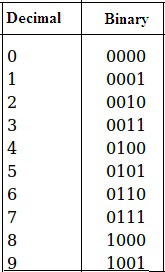
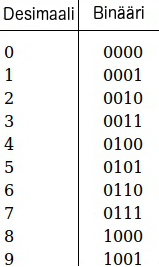
Add content to Dec-Bin converter page

Changed region(s): [[0.0, 0.0, 1.0, 1.0], [0.6289, 0.5993, 0.9057, 0.6592]]

diff --git a/muunna-frontend/src/components/Conversion/DecToBinCon.js b/muunna-frontend/src/components/Conversion/DecToBinCon.js
@@ -2,9 +2,12 @@ import React, {useState, useEffect} from 'react'
 import Notification from '../Notification'
 import { Breadcrumb } from 'react-bootstrap'
 import { LinkContainer } from "react-router-bootstrap"
+import desimaalijarjestelma from '../../desimaali.png'
+import binaarijarjestelma from '../../binaarijarjestelma.png'
+import binaarilukutaulukko from '../../binaarilukutaulukko.png'
 
 const DecToBinCon = () => {
-    const [decimal, setDecimal] = useState('')
+    const [decimal, setDecimal] = useState('10')
     const [binary, setBinary] = useState('')
     const [message, setMessage] = useState('')
     const [errorMessage, setErrorMessage] = useState('')
@@ -63,8 +66,28 @@ const DecToBinCon = () => {
                     </p>
                 </form>
                 <Notification message={message} result={binary} errorMessage={errorMessage} />
+                <p>Katso myös <a href="/yksikkomuuntimet/binaari-desimaali-muunnin">binääri-desimaalilukumuunnin</a>.</p>
             </div>
             </div>
+            <hr />
+            <h4>Desimaalijärjestelmä</h4>
+            <p>Normaalisti käytämme arkielämässä normaalia 10-numeroista lukujärjestelmää (luvut 0-9), eli desimaalijärjestelmää.<br /> Numeron paikka luvussa on merkitsevä ja kullakin numerolla on erilainen painoarvo sen mukaan, mikä on numeron sijainti
+            luvussa. Numeroiden painoarvot kasvavat oikealta vasemmalle: 1, 10, 100, 1000, 10000... <br />10 numerojärjestelmässä kantaluku on 10 ja numeroiden painoarvot saadaan kantaluvun potensseista: <var>1=10<sup>0</sup>, 10=10<sup>1</sup>, 100=10<sup>2</sup>, 1 000=10<sup>3</sup>, 10 000=10<sup>4</sup></var>
+            <img src={desimaalijarjestelma} alt='Desimaaliluku' style={{maxWidth: '100%'}}/>
+            <h4>Binäärijärjestelmä</h4>
+            Binäärijärjestelmä on teknisesti yksinkertaisin lukujärjestelmä. Binäärijärjestelmä on kaksijärjestelmä, jossa tarvitaan vain kahta numeroa: 0 ja 1.
+            <img src={binaarilukutaulukko} alt='Binäärilukutaulukko' style={{maxWidth: '100%', float: 'right', margin: '20px'}}/>
+            <br />
+            Tietokoneiden on vaikeaa käyttää 10-numerojärjestelmää merkkimäärän vuoksi, joten tietokoneiden toiminta perustuukin yksinkertaisempaan binäärijärjestelmään. Binääriluvuilla on helppo esittää erilaisia ilmiöitä, kuten: sähkö kulkee / ei kulje, ovi on auki / kiinni, toimii / ei toimi ja niin edelleen.
+            <br />
+            Binäärilukujärjestelmässä lukujen painoarvot saadaan kantaluvun (2) potensseina, samalla tavalla kuin 10-järjestelmässä.<br />
+            <var>1=2<sup>0</sup>, 2=2<sup>1</sup>, 4=2<sup>2</sup>, 8=2<sup>3</sup>, 16=2<sup>4</sup>, 32=2<sup>5</sup>, 64=2<sup>6</sup></var><br />
+            Lukujen painoarvot kasvaa vasemmalta oikealle 1, 2, 4, 8, 16, 32, 64, 128, 256, 512 jne.<br />
+            Yllä luetellut luvut saattaa näyttää hyvin tutuilta, koska ne tulevat jatkuvasti vastaan tietotekniikassa. 
+            <img src={binaarijarjestelma} alt='Binäärilukujärjestelmä' style={{maxWidth: '100%'}}/>
+            <br />
+            
+            </p>
         </div>
     )
 }

diff --git a/muunna-frontend/src/components/Conversion/Conversion.js b/muunna-frontend/src/components/Conversion/Conversion.js
@@ -8,6 +8,10 @@ const Conversion = () => {
         document.title = 'Yksikkömuuntimet - Laske & Muunna'
     })
 
+    const contentStyle = {
+        marginTop: '30px'
+    }
+
     return (
         <div>
             <Breadcrumb>
@@ -24,7 +28,8 @@ const Conversion = () => {
             Yksikkömuuntimet
             </h2>
             <p>
-                Erilaisia hyödyllisiä yksikkömuuntimia arkipäivisiin ja vähemmän arkipäivisiin tarpeisiin.
+                Erilaisia hyödyllisiä yksikkömuuntimia arkipäivisiin ja vähemmän arkipäivisiin tarpeisiin.<br />
+                Yksikkömuuntimilla voit muuttaa erilaisia yksiköitä, kuten mittayksiköitä ja lukuja toiseen yksikköön.
             </p>
             <Nav fill variant="tabs" className="flex-column">
                 <LinkContainer to="/yksikkomuuntimet/pituusmuunnin">
@@ -34,7 +39,7 @@ const Conversion = () => {
                     <Nav.Link>Desimaali-binäärilukumuunnin</Nav.Link>
                 </LinkContainer>
                 <LinkContainer to="/yksikkomuuntimet/binaari-desimaali-muunnin">
-                    <Nav.Link>Binääri-desimaaliluku muunnin</Nav.Link>
+                    <Nav.Link>Binääri-desimaalilukumuunnin</Nav.Link>
                 </LinkContainer>
                 <LinkContainer to="/yksikkomuuntimet/desimaali-heksadesimaali-muunnin">
                     <Nav.Link>Desimaali-heksadesimaalimuunnin</Nav.Link>
@@ -43,6 +48,10 @@ const Conversion = () => {
                     <Nav.Link>Desimaali-oktaalilukumuunnin</Nav.Link>
                 </LinkContainer>
             </Nav>
+            <div style={contentStyle}>
+            <p>Sivuiltamme löydät muuntimia, joilla voit muuntaa erilaisia mittayksiköitä. Voit esimerkiksi muuntaa senttimetrit tuumiksi tai toisinpäin, tuumat senttimetreiksi. </p>
+            <p>Jos mietit miten binäärilukuja luetaan, katso lisätietoa binääriluvuista ja <a href="/yksikkomuuntimet/binaari-desimaali-muunnin">muuta binääriluvut desimaaliluvuiksi Binääri-desimaalilukumuuntimella.</a></p>
+            </div>
         </div>
     )
 }

diff --git a/muunna-frontend/src/components/Conversion/BinToDecCon.js b/muunna-frontend/src/components/Conversion/BinToDecCon.js
@@ -14,7 +14,7 @@ const BinToDecCon = () => {
 
     useEffect(() => {
         handleChange(binary)
-        document.title = 'Binääri-desimaaliluku muunnin - Laske & Muunna'
+        document.title = 'Binääri-desimaalilukumuunnin - Laske & Muunna'
     })
 
     const handleChange = (value) => {
@@ -62,12 +62,12 @@ const BinToDecCon = () => {
                 </Breadcrumb.Item>
                 </LinkContainer>
                 <Breadcrumb.Item active>
-                Binääri-desimaaliluku muunnin
+                Binääri-desimaalilukumuunnin
                 </Breadcrumb.Item>
             </Breadcrumb>
             <div>
             <h2>
-            Binääri-desimaaliluku muunnin
+            Binääri-desimaalilukumuunnin
             </h2>
             <p>Tällä muuntimella voit muuntaa binääriluvun niin sanotuksi normaaliksi luvuksi eli desimaaliluvuksi.</p>
             <div>
@@ -77,7 +77,9 @@ const BinToDecCon = () => {
                         </input>
                     </p>
                 </form>
-                <Notification message={message} result={decimal} errorMessage={errorMessage} />            </div>
+                <Notification message={message} result={decimal} errorMessage={errorMessage} />
+                <p>Katso myös <a href="/yksikkomuuntimet/desimaali-binaari-muunnin">desimaali-binäärilukumuunnin</a>.</p>
+                </div>
             </div>
             <hr />
             <h4>Desimaalijärjestelmä</h4>

diff --git a/muunna-frontend/src/App.js b/muunna-frontend/src/App.js
@@ -51,7 +51,7 @@ function App() {
             <Route exact path="/yksikkomuuntimet" render={() => <Conversion />} />
             <Route path="/yksikkomuuntimet/pituusmuunnin/" render={() => <LengthCon />} />
           </Col>
-          <Col xs={6} md={4}>
+          <Col xs={12} md={4}>
             <Sidebar />
           </Col>
         </Row>
